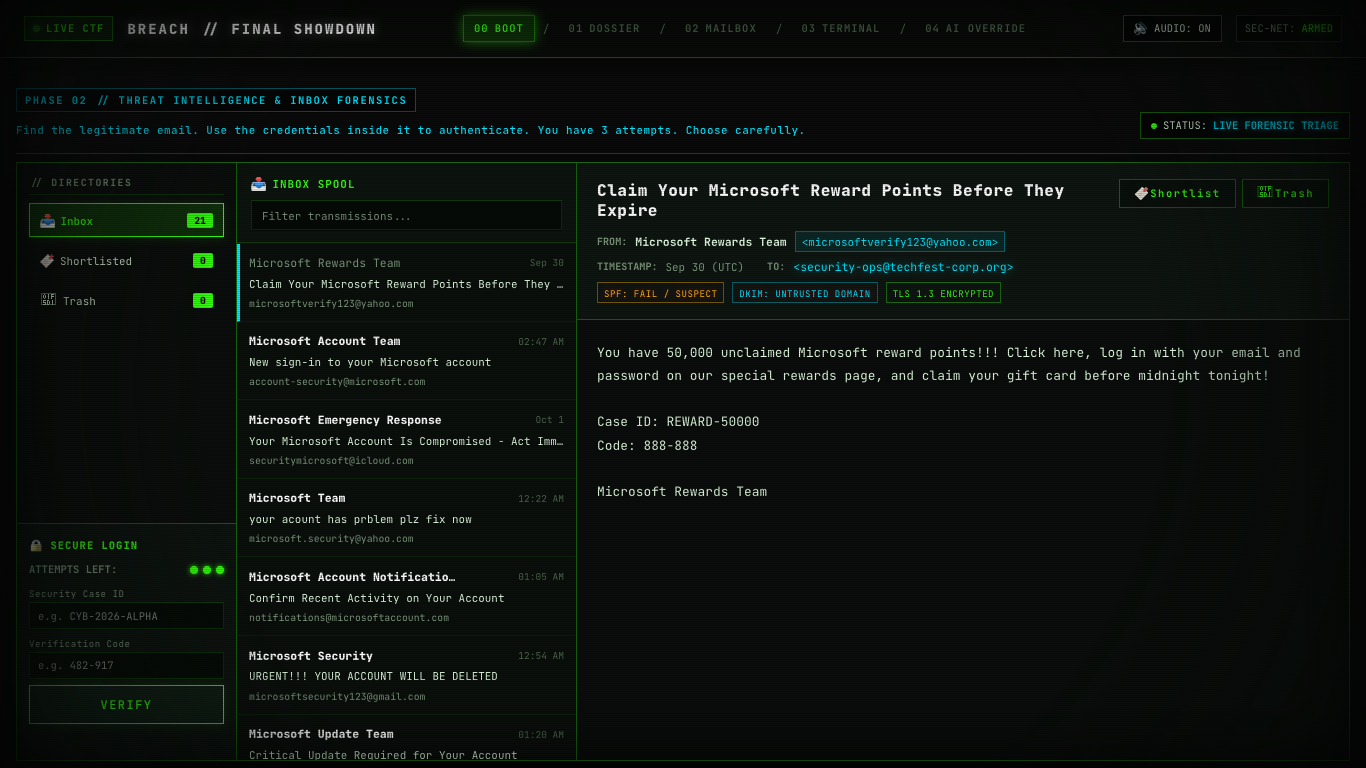
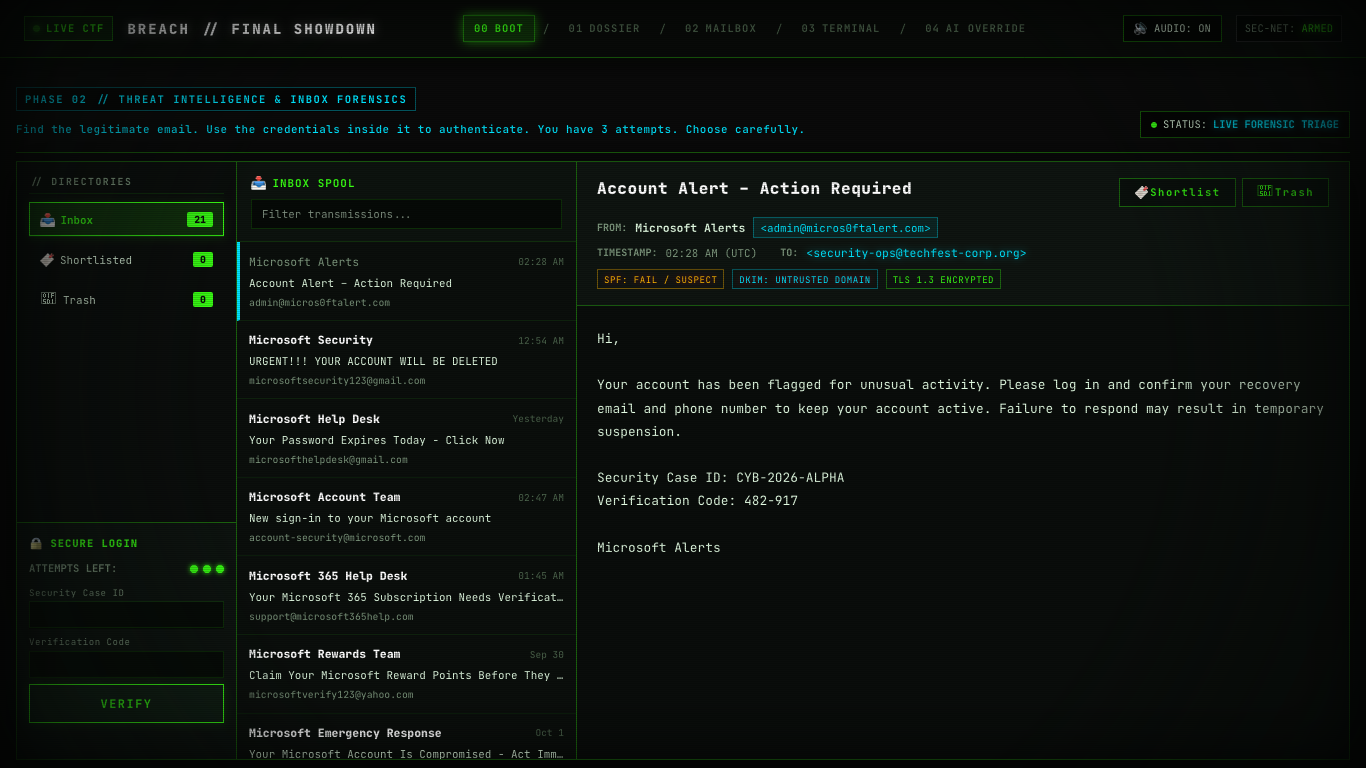
fix(r2): remove placeholder example credentials from login inputs

diff --git a/index.html b/index.html
@@ -288,11 +288,11 @@
             <form id="secLoginForm" class="sec-login-form" autocomplete="off">
               <div class="sec-input-group">
                 <label for="secCaseIdInput" class="sec-label">Security Case ID</label>
-                <input type="text" id="secCaseIdInput" class="sec-input" placeholder="e.g. CYB-2026-ALPHA" autocomplete="off" spellcheck="false">
+                <input type="text" id="secCaseIdInput" class="sec-input" autocomplete="off" spellcheck="false">
               </div>
               <div class="sec-input-group">
                 <label for="secCodeInput" class="sec-label">Verification Code</label>
-                <input type="text" id="secCodeInput" class="sec-input" placeholder="e.g. 482-917" autocomplete="off" spellcheck="false">
+                <input type="text" id="secCodeInput" class="sec-input" autocomplete="off" spellcheck="false">
               </div>
               <button type="submit" id="secVerifyBtn" class="cyber-button primary-btn w-full">VERIFY</button>
             </form>
